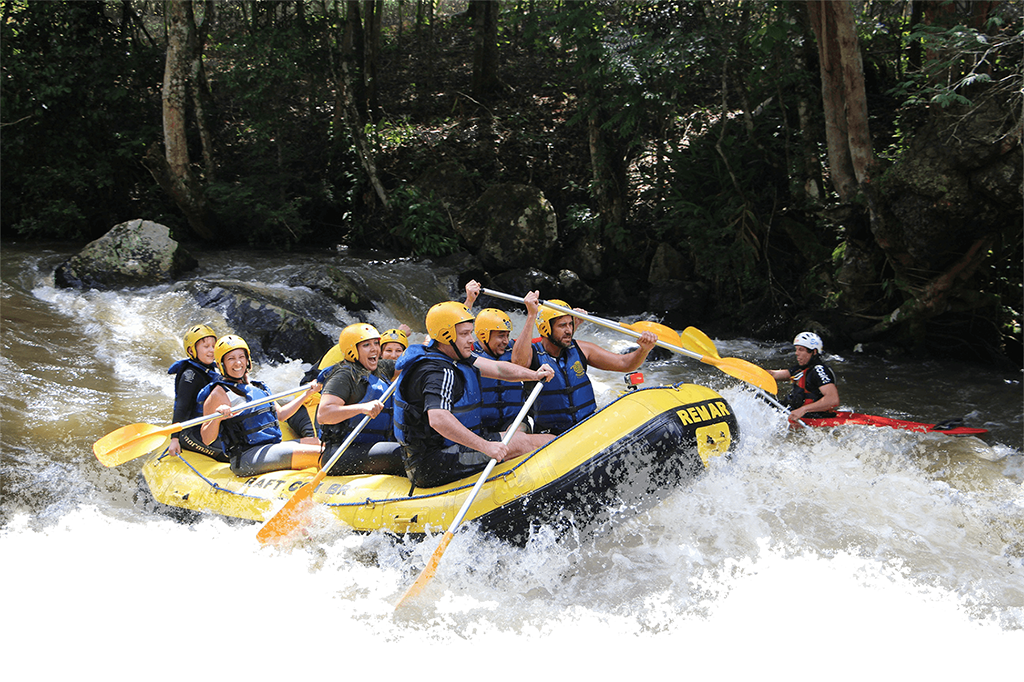
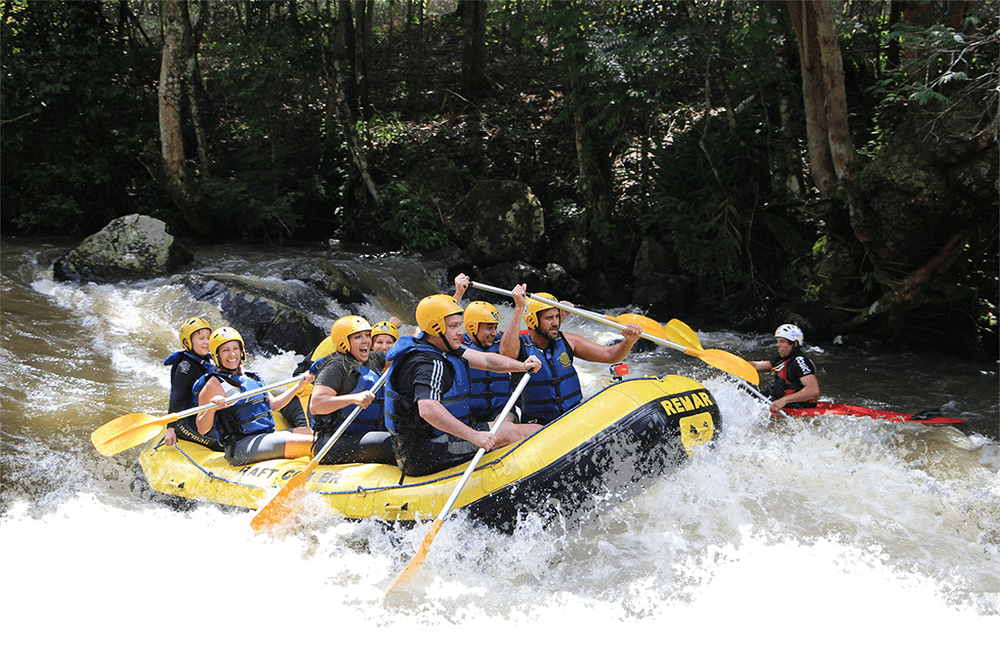
validation2

Changed region(s): [[0.434, 0.5405, 0.465, 0.6006]]

diff --git a/wwr/index.html b/wwr/index.html
@@ -1,11 +1,13 @@
 <!DOCTYPE html>
 <html lang="en">
+
 <head>
     <meta charset="UTF-8">
     <meta http-equiv="X-UA-Compatible" content="IE=edge">
     <meta name="viewport" content="width=device-width, initial-scale=1.0">
     <title>Whitewater Rafting Vacations</title>
 </head>
+
 <body>
     <header>
         <a id="logo_link" href="index.html">
@@ -20,7 +22,7 @@
     </header>
     <div id="hero">
         <div id="hero-box">
-            <img id="hero-img" src="images/rsz_hero.png" alt="People enjoying white water rafting">
+            <img id="hero-img" src="images/hero.png" alt="People enjoying white water rafting">
         </div>
         <section id="hero-msg">
             <h1 class="home-title">Have An Adventure</h1>
@@ -72,4 +74,5 @@
         </div>
     </footer>
 </body>
+
 </html>
